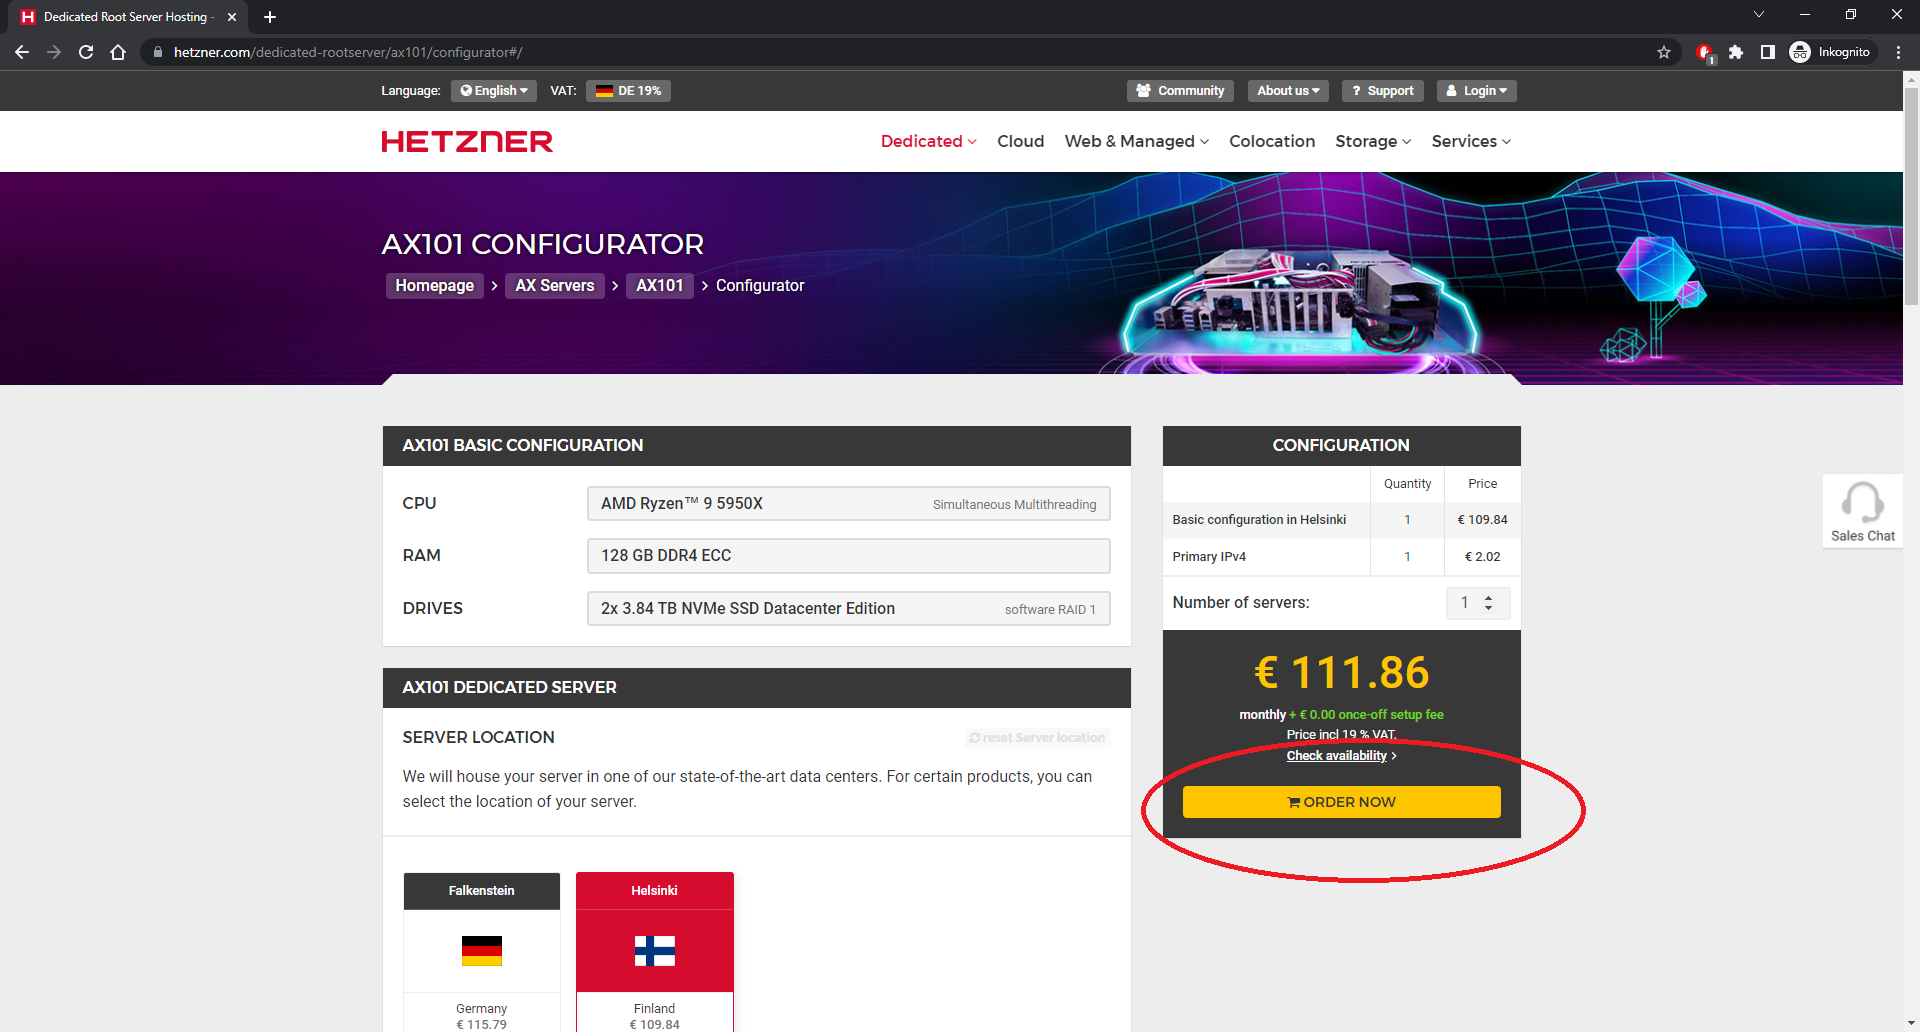
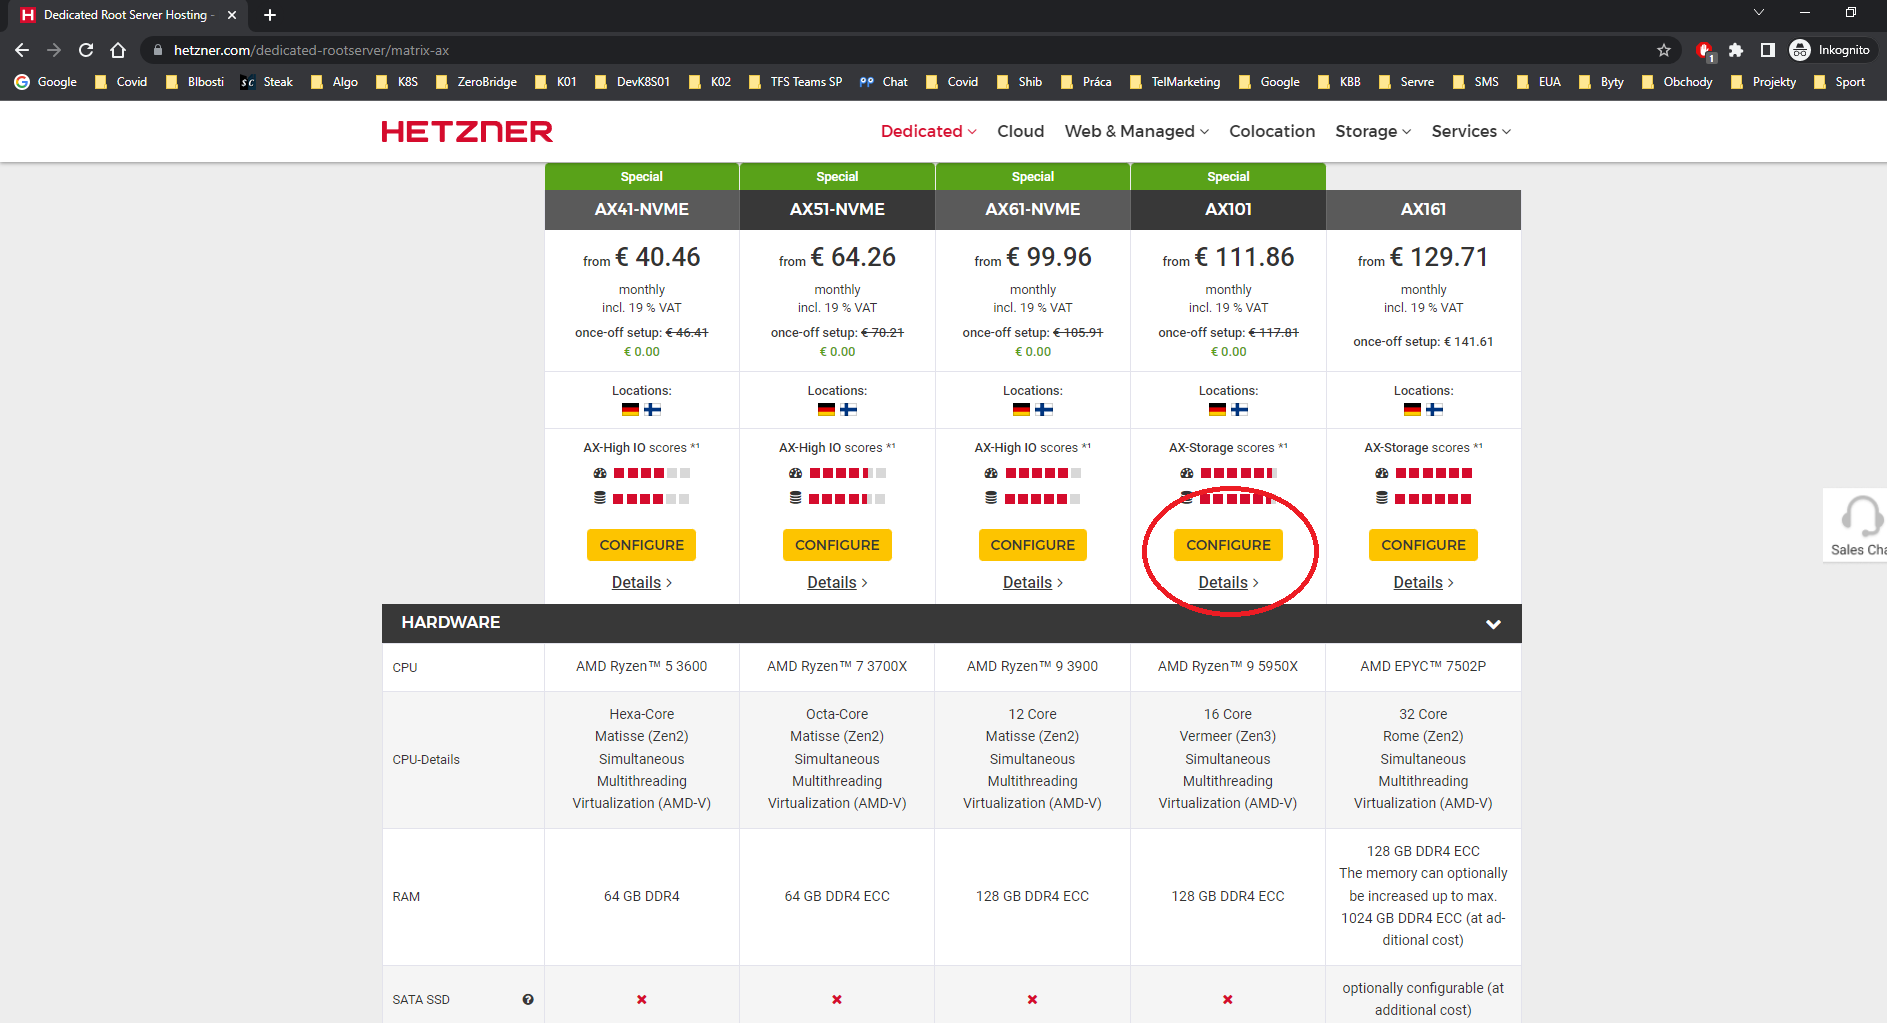
GitBook: [#2] No subject

diff --git a/kubernetes-setup/hetzner.md b/kubernetes-setup/hetzner.md
@@ -6,11 +6,11 @@ Navigate to [https://hetzner.cloud/](https://hetzner.cloud/?ref=TMLy7z7pZnk9)
 
 I recommend Dedicated AX-Line
 
-![](../.gitbook/assets/image.png)
+![](<../.gitbook/assets/image (2).png>)
 
 I do run serveral AX101 servers - AMD Ryzen™ 9 5950X , 128 GB DDR4 ECC, 2 x 3.84 TB NVME, unlimitted traffic @ 111.86 EUR (including VAT)
 
-![](<../.gitbook/assets/image (1).png>)![](<../.gitbook/assets/image (3).png>)![](<../.gitbook/assets/image (2).png>)![](<../.gitbook/assets/image (4).png>)
+![](<../.gitbook/assets/image (3).png>)![](<../.gitbook/assets/image (7).png>)![](<../.gitbook/assets/image (4).png>)![](<../.gitbook/assets/image (8).png>)
 
 In rescue mode format drives to be in sw raid.
 

diff --git a/kubernetes-setup/linode.md b/kubernetes-setup/linode.md
@@ -1,2 +1,17 @@
 # Linode
 
+Create cluster&#x20;
+
+![](<../.gitbook/assets/image (5).png>)![](<../.gitbook/assets/image (1).png>)
+
+Download config yaml file to local machine
+
+![](<../.gitbook/assets/image (6).png>)
+
+```
+export KUBECONFIG=/mnt/c/linode/k8s-kubeconfig.yaml
+KUBECONFIG=/mnt/c/linode/k8s-kubeconfig.yaml
+
+#test with
+kubectl get pods -A
+```
